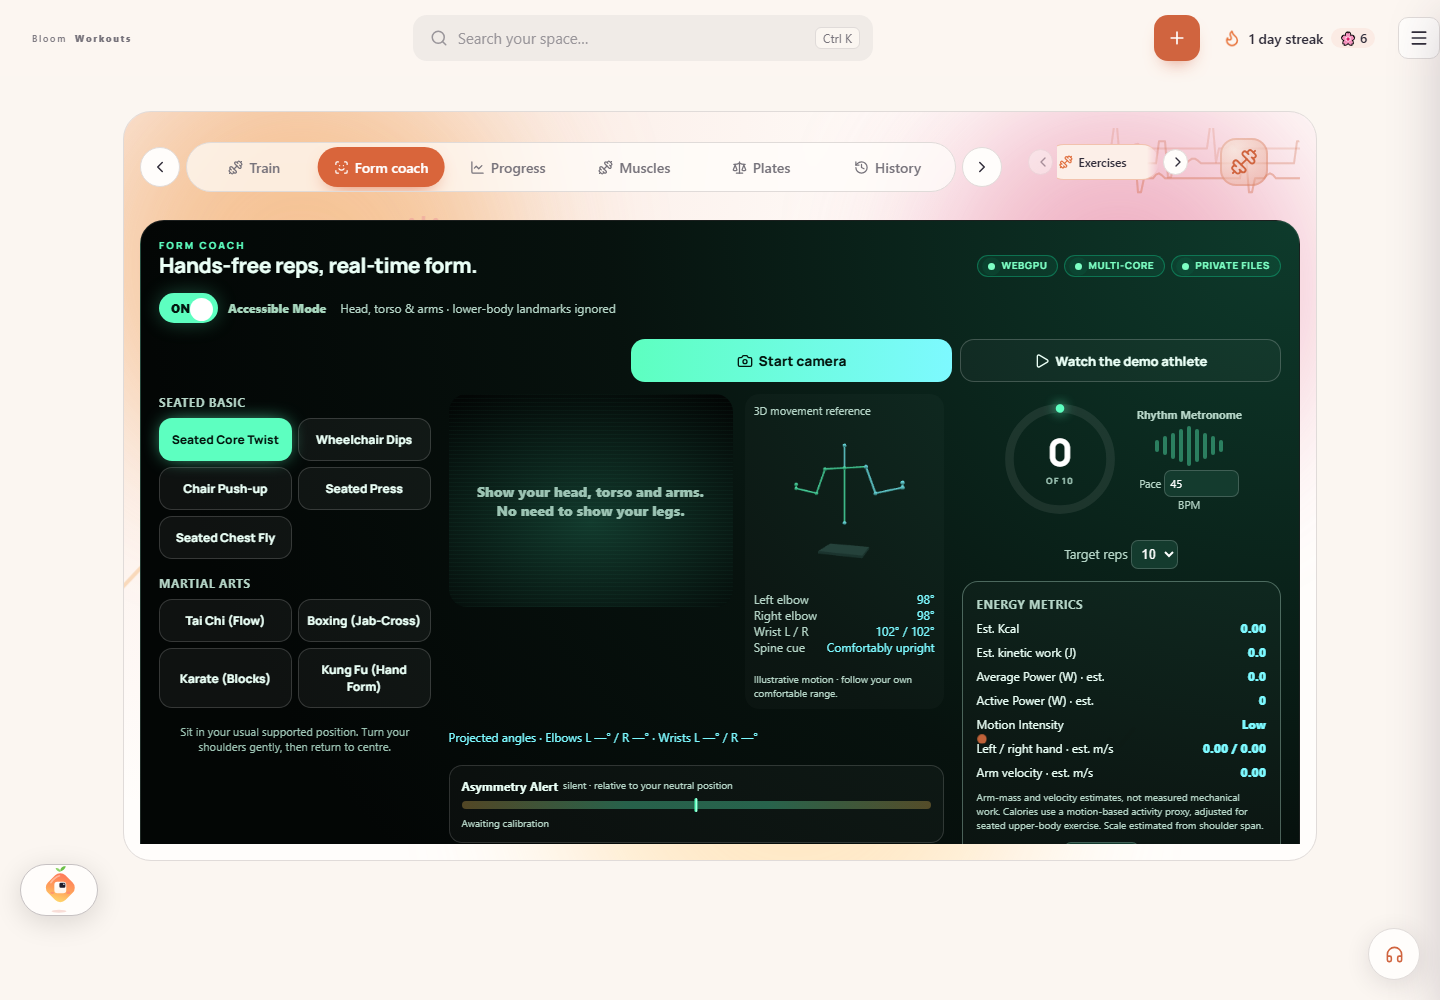
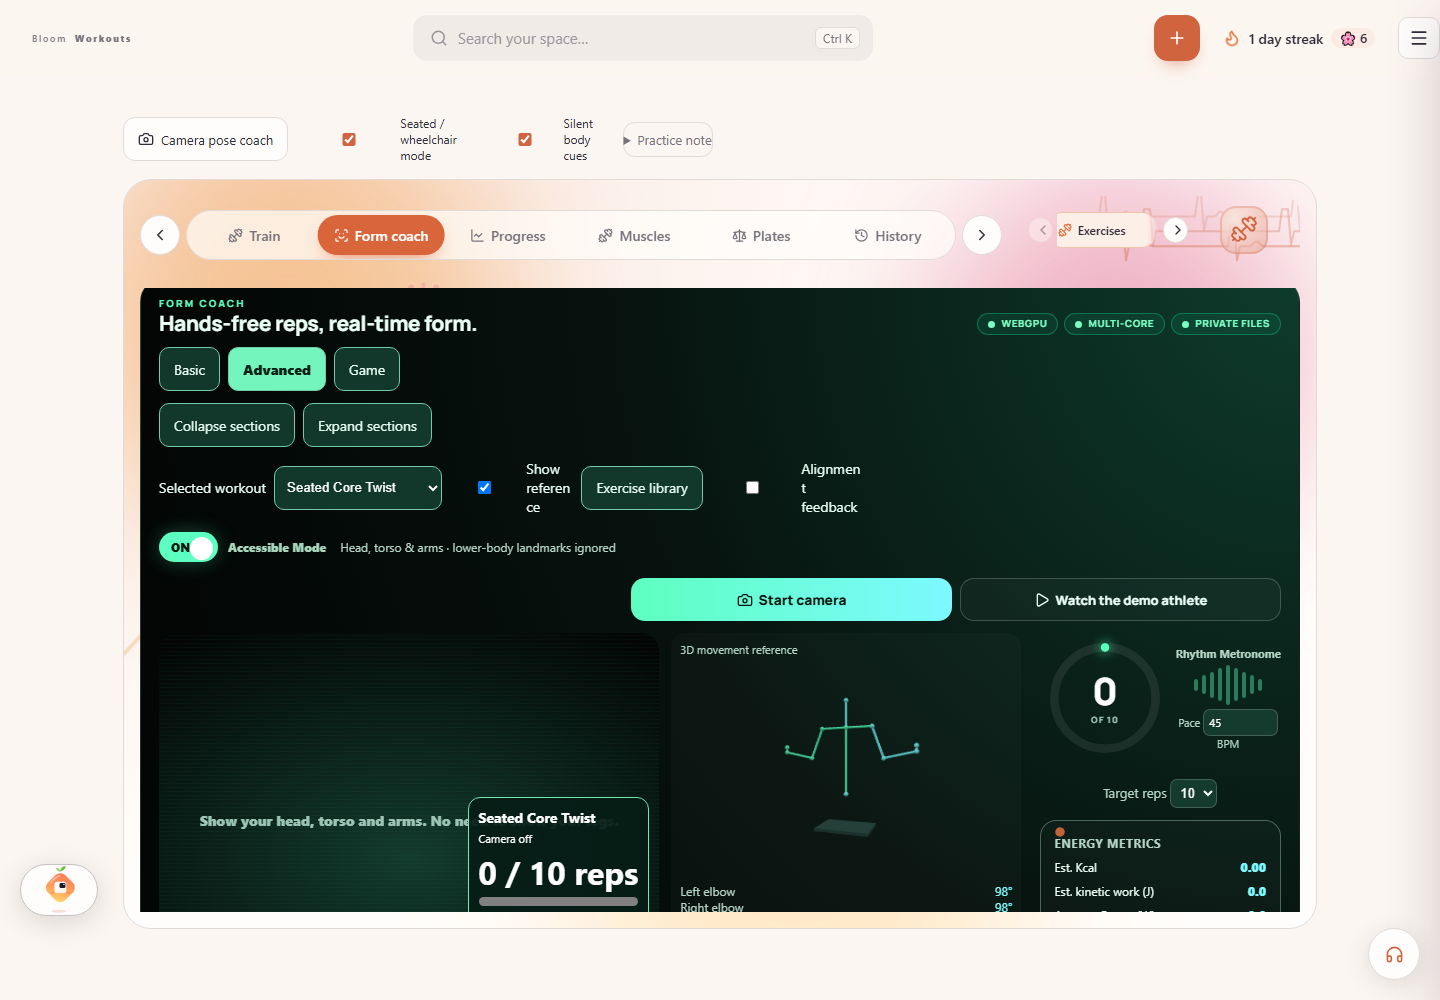
test(coach): verify basic and guided fullscreen interactions

diff --git a/e2e/form-coach.spec.ts b/e2e/form-coach.spec.ts
@@ -80,9 +80,13 @@ test('either-hand hovering changes exercises, logs one set, and finishes from fu
   expect(stored.workouts[0].sets[0].liftId).toBe('seatedtwist')
   await send(upperPose('seatedTwist', 0)); await page.waitForTimeout(1000)
   await hover('next', 16)
-  await expect(page.getByRole('radio', { name: 'Wheelchair Dips', exact: true })).toBeChecked({ timeout: 9000 })
+  await expect(page.getByRole('combobox', { name: 'Selected workout', exact: true })).toHaveValue('wheelchairDip', { timeout: 9000 })
   await send(upperPose('wheelchairDip', 0)); await page.waitForTimeout(1000)
   await page.getByRole('button', { name: 'Fullscreen workout' }).click()
+  await expect.poll(async () => {
+    const feed = (await page.locator('.fc-view').boundingBox())!, guide = (await page.locator('.fc-reference').boundingBox())!
+    return guide.x - feed.x - feed.width
+  }).toBeGreaterThan(-2)
   await hover('finish', 16)
   await expect(page.getByRole('button', { name: 'Start camera' })).toBeVisible({ timeout: 9000 })
   const finished = await page.evaluate(() => JSON.parse(localStorage.getItem('bloom-workouts-v1')!))
@@ -94,6 +98,7 @@ test('either-hand hovering changes exercises, logs one set, and finishes from fu
 
 test('personal calibration and visual preferences survive reload without saving demo workouts', async ({ page }, testInfo) => {
   await page.goto('/#workouts/coach', { waitUntil: 'domcontentloaded' })
+  await page.getByText('Coach settings', { exact: true }).click()
   await page.getByRole('checkbox', { name: 'Master reference view', exact: true }).uncheck()
   await page.getByRole('checkbox', { name: 'Battery saver', exact: true }).check()
   await page.getByRole('button', { name: 'Watch the demo athlete' }).click()
@@ -102,6 +107,7 @@ test('personal calibration and visual preferences survive reload without saving 
   await expect(page.locator('.fc-range-calibration')).toContainText('Personal range saved', { timeout: 18000 })
   await page.getByRole('button', { name: 'Finish', exact: true }).click()
   await page.reload({ waitUntil: 'domcontentloaded' })
+  await page.getByText('Coach settings', { exact: true }).click()
   await expect(page.getByRole('checkbox', { name: 'Master reference view', exact: true })).not.toBeChecked()
   await expect(page.getByRole('checkbox', { name: 'Battery saver', exact: true })).toBeChecked()
   const range = await page.evaluate(() => JSON.parse(localStorage.getItem('bloom-coach-ranges-v1') ?? '{}').seatedTwist)
@@ -129,8 +135,11 @@ test('Basic defaults to essentials and fullscreen keeps the reference, count and
   const reference = page.locator('.fc-split .fc-reference'), hud = page.locator('.fc-workout-hud')
   await expect(reference).toBeVisible(); await expect(hud).toContainText('/ 10 reps')
   await expect(hud.getByRole('progressbar')).toBeVisible()
-  const cameraBox = (await page.locator('.fc-view').boundingBox())!, referenceBox = (await reference.boundingBox())!
-  expect(referenceBox.x).toBeGreaterThan(cameraBox.x + cameraBox.width - 2)
+  await expect.poll(async () => {
+    const camera = (await page.locator('.fc-view').boundingBox())!, guide = (await reference.boundingBox())!
+    return guide.x - camera.x - camera.width
+  }).toBeGreaterThan(-2)
+  const cameraBox = (await page.locator('.fc-view').boundingBox())!
   const controls = (await page.getByRole('button', { name: 'Log set', exact: true }).boundingBox())!
   expect(controls.x).toBeLessThan(cameraBox.x + cameraBox.width / 2)
   await page.getByRole('button', { name: 'Exit fullscreen' }).click()

diff --git a/docs/FORM_COACH_USABILITY.md b/docs/FORM_COACH_USABILITY.md
@@ -1,0 +1,50 @@
+# Form Coach usability: 20 improvements
+
+- [x] 01. Basic is the default for a fresh profile.
+- [x] 02. Basic, Advanced and Game experience buttons.
+- [x] 03. Remember the selected experience locally.
+- [x] 04. One essential selected-workout dropdown.
+- [x] 05. Seated mode filters the dropdown to upper-body exercises.
+- [x] 06. Exercise library starts hidden and toggles independently.
+- [x] 07. Exercise categories fold independently.
+- [x] 08. Pose check category starts closed.
+- [x] 09. Settings start closed; Basic exposes only hand controls and skeleton.
+- [x] 10. Search advanced settings by name.
+- [x] 11. Collapse sections together in Advanced.
+- [x] 12. Expand sections together while preserving the closed Pose check category.
+- [x] 13. Alignment feedback is optional and hidden initially.
+- [x] 14. Independent Show reference toggle, on by default.
+- [x] 15. Fullscreen contains the camera and reference side by side.
+- [x] 16. Fullscreen hover controls form a left-hand column.
+- [x] 17. Selected workout and rep/second count remain visible in fullscreen.
+- [x] 18. Set progress bar inside the camera view.
+- [x] 19. Remaining amount and a clear Set complete / Log or Finish cue.
+- [x] 20. Timed workouts have an essential duration target too.
+
+Basic hides advanced energy, pacing, angle and connection panels. Game explicitly
+reveals the existing seated camera arcade. No camera starts when switching modes.
+Fullscreen has the same native / fallback exit behaviour and hover controls.
+References are illustrative: always follow your own comfortable movement range.
+
+## Validation
+
+- TypeScript, changed-file lint and production build passed (including PWA).
+- 37 camera combat / advanced coach / Body QoL tests passed.
+- All five desktop Form Coach browser scenarios passed against the production
+  preview across the initial run and focused rechecks: accessible library and
+  guided fullscreen, camera-denial recovery, either-hand set logging/exercise
+  switching/fullscreen finish, calibration/preference persistence, and the new
+  Basic/fullscreen/Game layout check.
+- Fullscreen geometry checks wait for the native browser resize to settle before
+  measuring the camera and reference or positioning simulated hands.
+- In-app browser checks confirmed the closed Pose check category, advanced setting
+  search, section collapse, mode switching and persistent completion cue.
+- Physical webcam accuracy remains a separate hardware check; hover tests use
+  simulated landmarks. The initial dev-preview navigation timed out; production
+  preview tests completed successfully.
+
+The completion cue stays visible until the set resets or is logged; it does not
+silently stop counting or save a set on your behalf. Reference visibility remains
+under your control. Basic and Game hide the advanced panels without erasing your
+saved advanced preferences.
+
